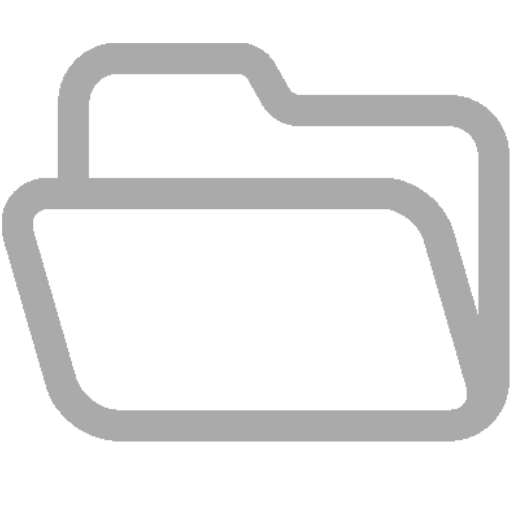
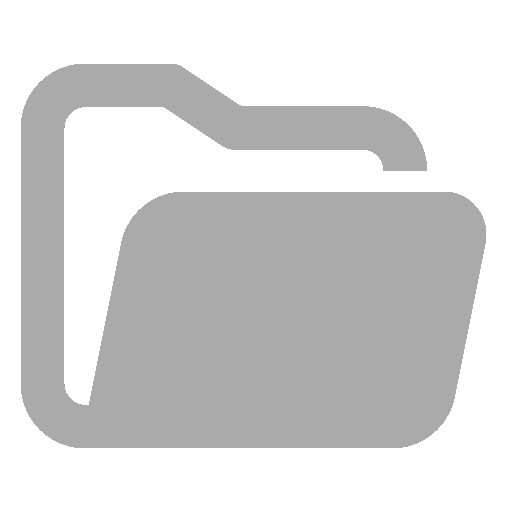
icond für die verschiedenen menüs

diff --git a/src/Gui.java b/src/Gui.java
@@ -677,7 +677,13 @@ public class Gui {
 
         JMenuBar menuBar = new JMenuBar();
         JMenu fileMenu = new JMenu("File");
+        ImageIcon fileIcon = new ImageIcon("src/folder.png");
+        fileIcon.setImage(fileIcon.getImage().getScaledInstance(15,15, Image.SCALE_SMOOTH));
+        fileMenu.setIcon(fileIcon);
         JMenuItem importMenuItem = new JMenuItem("import");
+        ImageIcon importIcon = new ImageIcon("src/import.png");
+        importIcon.setImage(importIcon.getImage().getScaledInstance(15,15, Image.SCALE_SMOOTH));
+        importMenuItem.setIcon(importIcon);
         importMenuItem.addMouseListener(new MouseAdapter() {
             @Override
             public void mouseReleased(MouseEvent e) {
@@ -701,6 +707,9 @@ public class Gui {
             }
         });
         JMenuItem exportMenuItem = new JMenuItem("export");
+        ImageIcon exportIcon = new ImageIcon("src/export.png");
+        exportIcon.setImage(exportIcon.getImage().getScaledInstance(15,15, Image.SCALE_SMOOTH));
+        exportMenuItem.setIcon(exportIcon);
         exportMenuItem.addMouseListener(new MouseAdapter() {
             @Override
             public void mouseReleased(MouseEvent e) {
@@ -718,10 +727,25 @@ public class Gui {
         fileMenu.add(exportMenuItem);
         menuBar.add(fileMenu);
         JMenu updateMenu = new JMenu("Update");
+        ImageIcon updateIcon = new ImageIcon("src/updating.png");
+        updateIcon.setImage(updateIcon.getImage().getScaledInstance(15,15, Image.SCALE_SMOOTH));
+        updateMenu.setIcon(updateIcon);
         JMenuItem playerZuordnen = new JMenuItem("Spieler verteilen");
+        ImageIcon distributeIcon = new ImageIcon("src/population.png");
+        distributeIcon.setImage(distributeIcon.getImage().getScaledInstance(15,15, Image.SCALE_SMOOTH));
+        playerZuordnen.setIcon(distributeIcon);
         JMenuItem updateLeaderboard = new JMenuItem("update Leaderboard");
+        ImageIcon listIcon = new ImageIcon("src/list.png");
+        listIcon.setImage(listIcon.getImage().getScaledInstance(15,15, Image.SCALE_SMOOTH));
+        updateLeaderboard.setIcon(listIcon);
         JMenuItem updateTische = new JMenuItem("update Tische");
+        ImageIcon tischIcon = new ImageIcon("src/export.png");
+        tischIcon.setImage(tischIcon.getImage().getScaledInstance(15,15, Image.SCALE_SMOOTH));
+        updateTische.setIcon(tischIcon);
         JMenuItem nextRoundItem = new JMenuItem("nächste Runde");
+        ImageIcon nextRoundIcon = new ImageIcon("src/next.png");
+        nextRoundIcon.setImage(nextRoundIcon.getImage().getScaledInstance(15,15, Image.SCALE_SMOOTH));
+        nextRoundItem.setIcon(nextRoundIcon);
         updateMenu.add(playerZuordnen);
         updateMenu.add(updateLeaderboard);
         playerZuordnen.addMouseListener(new MouseAdapter() {
@@ -901,6 +925,9 @@ public class Gui {
         tischPlayerListScrollPane.setPreferredSize(new Dimension(200,90));
         tischPlayerListScrollPane.setFocusable(false);
         tischPlayerListPanel.add(tischPlayerListScrollPane,BorderLayout.CENTER);
+        ImageIcon playerIcon = new ImageIcon("src/people.png");
+        playerIcon.setImage(playerIcon.getImage().getScaledInstance(20,20, Image.SCALE_SMOOTH));
+        tabbedPane.setIconAt(1,playerIcon);
 
         tabbedPane.addChangeListener(new ChangeListener() {
             @Override
